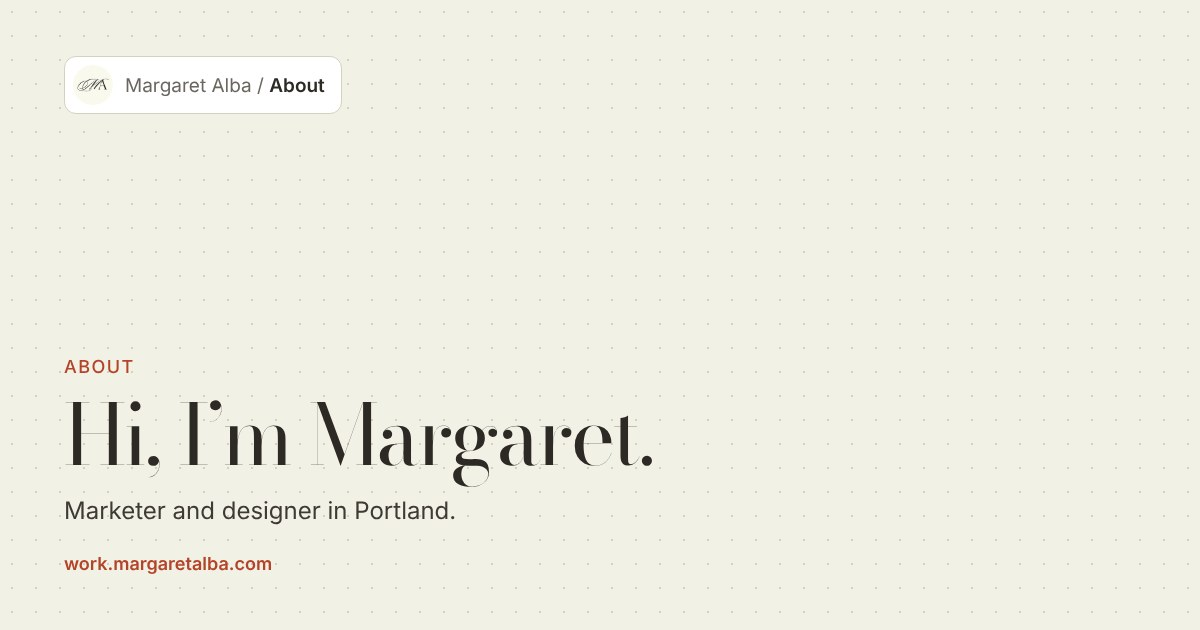
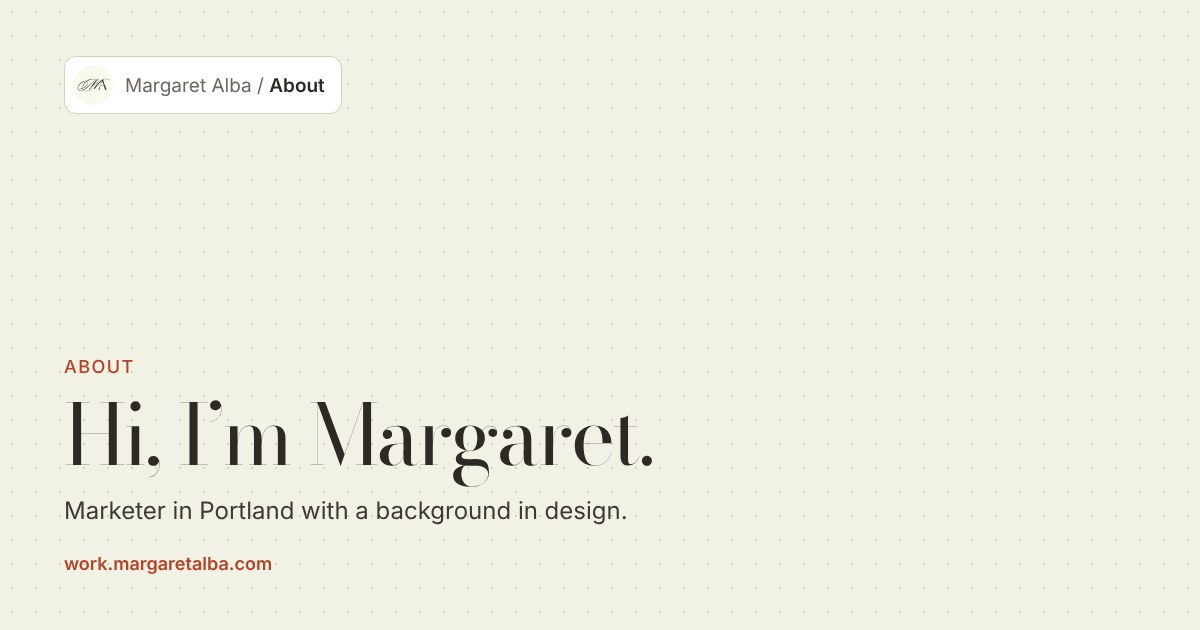
Position as a marketer with a design background
Marketer-first intros, ownership verbs where accurate, and a status line
that reads as client work: Booking marketing projects.

Claude-Session: https://claude.ai/code/session_01Bp2y4MwKfvAmLHEs5SbnWi

Changed region(s): [[0.1542, 0.7841, 0.5242, 0.8444]]

diff --git a/stitch-fix-meta/index.html b/stitch-fix-meta/index.html
@@ -84,13 +84,13 @@ div[style*="repeat(4,1fr)"]{grid-template-columns:repeat(2,1fr)!important}
 
 <div style="display:flex;flex-wrap:wrap;gap:12px 24px;align-items:center;justify-content:space-between">
 <div style="display:flex;align-items:center;gap:12px;background:#fff;border:1px solid #D5D1C0;border-radius:12px;padding:8px 14px 8px 8px;font-size:14px"><img src="/assets/img/logo.png" alt="Margaret Alba monogram" style="display:block;width:32px;height:32px;border-radius:50%;flex:none"><span><span style="color:#6B665E"><a href="https://www.margaretalba.com" class="ma" style="color:#6B665E">Margaret Alba</a> / <a href="/" class="ma" style="color:#6B665E">Marketing portfolio</a> /</span> <b style="font-weight:600">Stitch Fix Meta Growth Creative</b></span></div>
-<div style="display:flex;flex-wrap:wrap;align-items:center;gap:10px 20px;font-size:14px"><a href="/" style="color:#6B665E">← All work</a><span class="st"><span class="st-dot" aria-hidden="true"></span>Booking freelance projects</span><a class="hv" href="mailto:hello@margaretalba.com" style="background:#B54329;color:#F9F9EE;border-radius:8px;padding:9px 18px;font-weight:600"><span class="fl" aria-hidden="true"></span>Say hi</a></div>
+<div style="display:flex;flex-wrap:wrap;align-items:center;gap:10px 20px;font-size:14px"><a href="/" style="color:#6B665E">← All work</a><span class="st"><span class="st-dot" aria-hidden="true"></span>Booking marketing projects</span><a class="hv" href="mailto:hello@margaretalba.com" style="background:#B54329;color:#F9F9EE;border-radius:8px;padding:9px 18px;font-weight:600"><span class="fl" aria-hidden="true"></span>Say hi</a></div>
 </div>
 
 <div style="display:flex;flex-direction:column;gap:20px;max-width:820px">
 <div class="ey">Case study 01</div>
 <h1 class="bd" style="margin:0;font-size:72px;line-height:1.02;letter-spacing:-.03em">Stitch Fix Meta Growth Creative</h1>
-<p style="margin:0;font-size:22px;line-height:1.5;color:#3E3A34">I design Meta ads for Stitch Fix, from a 96-asset lower-funnel refresh to win-back ads that brought lapsed clients back for about 40% less.</p>
+<p style="margin:0;font-size:22px;line-height:1.5;color:#3E3A34">I create Meta ads for Stitch Fix, from a 96-asset lower-funnel refresh to win-back ads that brought lapsed clients back for about 40% less.</p>
 </div>
 
 <div style="display:flex;flex-wrap:wrap;gap:56px;align-items:flex-start">
@@ -103,10 +103,10 @@ div[style*="repeat(4,1fr)"]{grid-template-columns:repeat(2,1fr)!important}
 
 <main style="flex:1 1 560px;max-width:760px;display:flex;flex-direction:column;gap:80px">
 
-<section id="ch" style="display:flex;flex-direction:column;gap:14px"><div class="ey">The challenge</div><p class="p" style="font-size:20px">Stitch Fix is an online styling service, and Meta is where it finds new clients and wins back old ones. I design for both: lower-funnel ads for people close to signing up, and reactivation ads for clients who drifted away. Each audience needs a different message, the women’s and men’s lines each need their own look, and all of it runs on a busy promo calendar.</p></section>
+<section id="ch" style="display:flex;flex-direction:column;gap:14px"><div class="ey">The challenge</div><p class="p" style="font-size:20px">Stitch Fix is an online styling service, and Meta is where it finds new clients and wins back old ones. My work covers both: lower-funnel ads for people close to signing up, and reactivation ads for clients who drifted away. Each audience needs a different message, the women’s and men’s lines each need their own look, and all of it runs on a busy promo calendar.</p></section>
 
 <section id="rx" style="display:flex;flex-direction:column;gap:32px"><div class="ey">Reactivation</div>
-<div style="display:flex;flex-direction:column;gap:14px"><p class="bd" style="margin:0;font-size:36px;line-height:1.2">Bringing lapsed clients back.</p><p class="p">Reactivation ads reach people who’ve used Stitch Fix before and drifted away. They already know the service, so the job is giving them a good reason to come back. I designed the ads for several reactivation campaigns, each with its own offer for a different group of lapsed clients: 10% off, a waived styling fee, 20% off two Fixes, or just what’s new.</p></div>
+<div style="display:flex;flex-direction:column;gap:14px"><p class="bd" style="margin:0;font-size:36px;line-height:1.2">Bringing lapsed clients back.</p><p class="p">Reactivation ads reach people who’ve used Stitch Fix before and drifted away. They already know the service, so the job is giving them a good reason to come back. I created the ads for several reactivation campaigns, each with its own offer for a different group of lapsed clients: 10% off, a waived styling fee, 20% off two Fixes, or just what’s new.</p></div>
 <div style="display:grid;grid-template-columns:repeat(auto-fit,minmax(200px,1fr));gap:16px"><div class="fm" style="background:#fff;display:flex;flex-direction:column;gap:4px;padding:22px 24px"><div class="bd" style="font-size:60px;line-height:1;color:#B54329">~40%</div><div style="font-size:14px;color:#6B665E">Lower cost per returning client: the 20%-off static, women’s and men’s</div></div><div class="fm" style="background:#fff;display:flex;flex-direction:column;gap:4px;padding:22px 24px"><div class="bd" style="font-size:60px;line-height:1;color:#B54329">~38%</div><div style="font-size:14px;color:#6B665E">Lower cost per returning client: the waived-fee static</div></div><div class="fm" style="background:#fff;display:flex;flex-direction:column;gap:4px;padding:22px 24px"><div class="bd" style="font-size:60px;line-height:1;color:#B54329">−25%</div><div style="font-size:14px;color:#6B665E">Cost per returning client as the waived-fee static’s budget grew</div></div></div>
 <p class="cap" style="margin:0">From my best-performing reactivation statics, compared with the dynamic product ads running at the same time.</p>
 <div><div class="bd sh">Start from what’s worked.</div><p class="p">The brief gave me the goal, and I took it from there: picking the photos, building on layouts that had performed well before, and treating the offer the way past results said to.</p></div>
@@ -129,10 +129,10 @@ div[style*="repeat(4,1fr)"]{grid-template-columns:repeat(2,1fr)!important}
 <div style="display:grid;grid-template-columns:repeat(auto-fit,minmax(200px,1fr));gap:16px"><div class="fm" style="background:#fff;display:flex;flex-direction:column;gap:4px;padding:22px 24px"><div class="bd" style="font-size:60px;line-height:1;color:#B54329">96</div><div style="font-size:14px;color:#6B665E">Meta assets in one campaign</div></div><div class="fm" style="background:#fff;display:flex;flex-direction:column;gap:4px;padding:22px 24px"><div class="bd" style="font-size:34px;line-height:60px;color:#B54329;white-space:nowrap">4:5 &amp; 9:16</div><div style="font-size:14px;color:#6B665E">Feed, Stories and Reels sizes</div></div><div class="fm" style="background:#fff;display:flex;flex-direction:column;gap:4px;padding:22px 24px"><div class="bd" style="font-size:34px;line-height:60px;color:#B54329;white-space:nowrap">+ Motion</div><div style="font-size:14px;color:#6B665E">Static and animated versions</div></div></div>
 <div><div class="fl"><span>Meta static ads, one campaign</span><span>04</span></div><div class="fm" style="padding:10px;background:#fff"><div style="display:grid;grid-template-columns:repeat(4,1fr);gap:8px"><img loading="lazy" decoding="async" src="/assets/img/stitch-fix-1.webp" alt="Spring Style Made Easy: a striped dress with accessories beside the model wearing it, with a $20 off your first Fix badge."><img loading="lazy" decoding="async" src="/assets/img/stitch-fix-2.webp" alt="Side effects may include compliments: a flat lay of spring pieces with the $20 off badge."><img loading="lazy" decoding="async" src="/assets/img/stitch-fix-3.webp" alt="Big plus Tall is here: men’s jacket, polo, jeans and sneakers around a smiling model."><img loading="lazy" decoding="async" src="/assets/img/stitch-fix-4.webp" alt="All style, no risk: folded men’s clothing and a Stitch Fix box with the $20 off badge."></div></div></div>
 <div><div class="fl"><span>Meta video ads</span><span>05</span></div><div class="fm" style="background:#fff"><div style="display: grid; grid-template-columns: repeat(4,1fr); gap: 10px; align-items: start; position: relative"><video src="/assets/video/stitch-fix-5.mp4" poster="/assets/img/stitch-fix-6.webp" autoplay="" muted="" loop="" playsinline="" preload="metadata" aria-label="Women’s Meta video ad, vertical" style="display:block;width:100%;height:auto;border-radius:8px;background:#E9E1D2"></video><video src="/assets/video/stitch-fix-7.mp4" poster="/assets/img/stitch-fix-8.webp" autoplay="" muted="" loop="" playsinline="" preload="metadata" aria-label="Women’s Meta video ad, vertical" style="display:block;width:100%;height:auto;border-radius:8px;background:#E9E1D2"></video><video src="/assets/video/stitch-fix-video-3.mp4" autoplay="" muted="" loop="" playsinline="" preload="metadata" aria-label="Meta video ad, vertical" style="display:block;width:100%;height:auto;border-radius:8px;background:#E9E1D2"></video><video src="/assets/video/stitch-fix-video-4.mp4" autoplay="" muted="" loop="" playsinline="" preload="metadata" aria-label="Meta video ad, vertical" style="display:block;width:100%;height:auto;border-radius:8px;background:#E9E1D2"></video></div></div></div>
-<p class="cap" style="margin:0">Behind these, I design the DPA and non-DPA assets for both the women’s and men’s lines.</p>
+<p class="cap" style="margin:0">Behind these, I also create the DPA and non-DPA assets for both the women’s and men’s lines.</p>
 </section>
 
-<section id="ln" style="display:flex;flex-direction:column;gap:14px"><div class="ey">What I learned</div><p class="p">An ad is a tiny space, so every part of it has to earn its place. I learned to start with the audience: what does a new client want, what would bring a lapsed client back, and what do they actually <em>need</em> to see? Then I design for that.</p></section>
+<section id="ln" style="display:flex;flex-direction:column;gap:14px"><div class="ey">What I learned</div><p class="p">An ad is a tiny space, so every part of it has to earn its place. I learned to start with the audience: what does a new client want, what would bring a lapsed client back, and what do they actually <em>need</em> to see? Then I build the creative around that.</p></section>
 
 <a class="nx" href="/ltk-madewell" style="display:flex;flex-wrap:wrap;gap:12px;justify-content:space-between;align-items:center;border-top:1px solid #2D2A25;padding-top:28px"><span style="font-size:13px;letter-spacing:.08em;text-transform:uppercase;color:#6B665E">Next case study</span><span class="nt bd" style="font-size:30px;transition:color .2s">LTK × Madewell In-App Sale →</span></a>
 

diff --git a/about/index.html b/about/index.html
@@ -83,13 +83,13 @@ div[style*="repeat(4,1fr)"]{grid-template-columns:repeat(2,1fr)!important}
 
 <div style="display:flex;flex-wrap:wrap;gap:12px 24px;align-items:center;justify-content:space-between">
 <div style="display:flex;align-items:center;gap:12px;background:#fff;border:1px solid #D5D1C0;border-radius:12px;padding:8px 14px 8px 8px;font-size:14px"><img src="/assets/img/logo.png" alt="Margaret Alba monogram" style="display:block;width:32px;height:32px;border-radius:50%;flex:none"><span><span style="color:#6B665E"><a href="https://www.margaretalba.com" class="ma" style="color:#6B665E">Margaret Alba</a> / <a href="/" class="ma" style="color:#6B665E">Marketing portfolio</a> /</span> <b style="font-weight:600">About</b></span></div>
-<div style="display:flex;flex-wrap:wrap;align-items:center;gap:10px 20px;font-size:14px"><a href="/" style="color:#6B665E">← All work</a><span class="st"><span class="st-dot" aria-hidden="true"></span>Booking freelance projects</span><a class="hv" href="mailto:hello@margaretalba.com" style="background:#B54329;color:#F9F9EE;border-radius:8px;padding:9px 18px;font-weight:600"><span class="fl" aria-hidden="true"></span>Say hi</a></div>
+<div style="display:flex;flex-wrap:wrap;align-items:center;gap:10px 20px;font-size:14px"><a href="/" style="color:#6B665E">← All work</a><span class="st"><span class="st-dot" aria-hidden="true"></span>Booking marketing projects</span><a class="hv" href="mailto:hello@margaretalba.com" style="background:#B54329;color:#F9F9EE;border-radius:8px;padding:9px 18px;font-weight:600"><span class="fl" aria-hidden="true"></span>Say hi</a></div>
 </div>
 
 <div style="display:flex;flex-direction:column;gap:20px;max-width:820px">
 <div class="ey">About</div>
 <h1 class="bd" style="margin:0;font-size:72px;line-height:1.02;letter-spacing:-.03em">Hi, I’m Margaret.</h1>
-<p style="margin:0;font-size:22px;line-height:1.5;color:#3E3A34">I’m a marketer and designer in Portland, focused on promotions and paid social. I love bringing creativity to every part of a campaign, from the strategy to the execution.</p>
+<p style="margin:0;font-size:22px;line-height:1.5;color:#3E3A34">I’m a marketer in Portland with a background in design, focused on promotions and paid social. I love bringing creativity to every part of a campaign, from the strategy to the execution.</p>
 </div>
 
 <div style="display:flex;flex-wrap:wrap;gap:56px;align-items:flex-start">
@@ -106,10 +106,10 @@ div[style*="repeat(4,1fr)"]{grid-template-columns:repeat(2,1fr)!important}
 <p class="p" style="font-size:20px">Growing up, all I wanted was to be an artist. My parents had never met an artist who made a living at it, so we compromised, and I went to school for marketing. To my surprise, I loved it. Marketing gave design a purpose, and it made my work more thoughtful.</p>
 <p class="p">After school, I built a career in graphic design across tech and retail, both in-house and at an agency, while freelancing in marketing for local B2C brands.</p>
 <p class="p">Today, that design background is my biggest strength as a marketer. Everyone is competing for attention, and I know how to make work that gets noticed.</p></section>
-<section id="now" style="display:flex;flex-direction:column;gap:14px"><div class="ey">Right now</div><p class="p">At Stitch Fix, I design the promotions and growth creative that bring in new clients for the women’s and men’s lines, from Meta ads to DPA. <a href="/stitch-fix-meta" style="color:#8F3118;text-decoration:underline;text-underline-offset:3px">See the Meta work.</a></p></section>
+<section id="now" style="display:flex;flex-direction:column;gap:14px"><div class="ey">Right now</div><p class="p">At Stitch Fix, I create the promotions and growth creative that bring in new clients and win back lapsed ones, from Meta ads to DPA, for the women’s and men’s lines. <a href="/stitch-fix-meta" style="color:#8F3118;text-decoration:underline;text-underline-offset:3px">See the Meta work.</a></p></section>
 
 <section id="before" style="display:flex;flex-direction:column;gap:14px"><div class="ey">Before that</div>
-<p class="p">I was at LTK until May 2024, working on in-app sales with brands like Madewell and adidas. I made the emails, social posts, banners and decks for those sales, and I designed the look of LTK’s podcast, More to Say. I also got to work on campaigns for Abercrombie &amp; Fitch and ASOS.</p>
+<p class="p">I was at LTK until May 2024, working on in-app sales with brands like Madewell and adidas. I owned the creative for those sales, from emails and social posts to banners and decks, and I built the brand for LTK’s podcast, More to Say. I also got to work on campaigns for Abercrombie &amp; Fitch and ASOS.</p>
 <p class="p">Before that, from 2017 to 2019, I was the Marketing &amp; Design Coordinator at Project Object and Upper Metal Class in Portland. I did a bit of everything there: the store identity, events, emails and the Shopify site. <a href="/project-object" style="color:#8F3118;text-decoration:underline;text-underline-offset:3px">See Project Object.</a></p></section>
 
 <section id="video" style="display:flex;flex-direction:column;gap:14px"><div class="ey">Video</div><p class="p">I also script, film and edit videos, for brands like wool&amp; and Under Luna and for my own YouTube channel. <a href="/video" style="color:#8F3118;text-decoration:underline;text-underline-offset:3px">See the videos.</a></p></section>

diff --git a/ltk-madewell/index.html b/ltk-madewell/index.html
@@ -82,13 +82,13 @@ div[style*="repeat(4,1fr)"]{grid-template-columns:repeat(2,1fr)!important}
 
 <div style="display:flex;flex-wrap:wrap;gap:12px 24px;align-items:center;justify-content:space-between">
 <div style="display:flex;align-items:center;gap:12px;background:#fff;border:1px solid #D5D1C0;border-radius:12px;padding:8px 14px 8px 8px;font-size:14px"><img src="/assets/img/logo.png" alt="Margaret Alba monogram" style="display:block;width:32px;height:32px;border-radius:50%;flex:none"><span><span style="color:#6B665E"><a href="https://www.margaretalba.com" class="ma" style="color:#6B665E">Margaret Alba</a> / <a href="/" class="ma" style="color:#6B665E">Marketing portfolio</a> /</span> <b style="font-weight:600">LTK × Madewell</b></span></div>
-<div style="display:flex;flex-wrap:wrap;align-items:center;gap:10px 20px;font-size:14px"><a href="/" style="color:#6B665E">← All work</a><span class="st"><span class="st-dot" aria-hidden="true"></span>Booking freelance projects</span><a class="hv" href="mailto:hello@margaretalba.com" style="background:#B54329;color:#F9F9EE;border-radius:8px;padding:9px 18px;font-weight:600"><span class="fl" aria-hidden="true"></span>Say hi</a></div>
+<div style="display:flex;flex-wrap:wrap;align-items:center;gap:10px 20px;font-size:14px"><a href="/" style="color:#6B665E">← All work</a><span class="st"><span class="st-dot" aria-hidden="true"></span>Booking marketing projects</span><a class="hv" href="mailto:hello@margaretalba.com" style="background:#B54329;color:#F9F9EE;border-radius:8px;padding:9px 18px;font-weight:600"><span class="fl" aria-hidden="true"></span>Say hi</a></div>
 </div>
 
 <div style="display:flex;flex-direction:column;gap:20px;max-width:820px">
 <div class="ey">Case study 02</div>
 <h1 class="bd" style="margin:0;font-size:72px;line-height:1.02;letter-spacing:-.03em">LTK × Madewell In-App Sale</h1>
-<p style="margin:0;font-size:22px;line-height:1.5;color:#3E3A34">I designed everything for LTK’s in-app sale with Madewell, from the emails and social posts to the banners and decks. Sales went up 220%.</p>
+<p style="margin:0;font-size:22px;line-height:1.5;color:#3E3A34">I owned the creative for LTK’s in-app sale with Madewell, before, during and after the sale, from the emails and social posts to the banners and decks. Sales went up 220%.</p>
 </div>
 
 <div style="display:flex;flex-wrap:wrap;gap:56px;align-items:flex-start">
@@ -115,7 +115,7 @@ div[style*="repeat(4,1fr)"]{grid-template-columns:repeat(2,1fr)!important}
 <div><div class="fl"><span>Social posts</span><span>02</span></div><div class="fm" style="background:#fff"><img loading="lazy" decoding="async" src="/assets/img/madewell-2.webp" alt="Three feed posts: the exclusive in-app sale announcement, a three-step checklist to get ready, and a post of Madewell top performers."></div></div>
 <div><div class="fl"><span>Banners</span><span>03</span></div><div class="fm" style="background:#fff"><img loading="lazy" decoding="async" src="/assets/img/madewell-3.webp" alt="Four banners moving from “is coming” to “is live next week,” “sale is live in-app” and “is officially live in-app.”"></div></div>
 <div><div class="fl"><span>Deck slide</span><span>04</span></div><div class="fm" style="background:#fff"><img loading="lazy" decoding="async" src="/assets/img/madewell-slide.webp" alt="A slide titled #LTK×Madewell Marketing Communications, with a creator in a black blazer on the left and the Madewell blazer on a hanger on the right. Creator marketing ran 9/29 to 10/29 and shopper marketing ran 10/17 to 10/29."></div><p class="cap">From the marketing deck. Creator marketing ran 9/29 to 10/29, and shopper marketing ran 10/17 to 10/29.</p></div>
-<p class="cap" style="margin:0">I designed the emails and blog posts for the sale, too.</p>
+<p class="cap" style="margin:0">I created the emails and blog posts for the sale, too.</p>
 </section>
 
 <section id="rs" style="display:flex;flex-direction:column;gap:24px"><div class="ey">Results</div>

diff --git a/ltk-adidas/index.html b/ltk-adidas/index.html
@@ -82,13 +82,13 @@ div[style*="repeat(4,1fr)"]{grid-template-columns:repeat(2,1fr)!important}
 
 <div style="display:flex;flex-wrap:wrap;gap:12px 24px;align-items:center;justify-content:space-between">
 <div style="display:flex;align-items:center;gap:12px;background:#fff;border:1px solid #D5D1C0;border-radius:12px;padding:8px 14px 8px 8px;font-size:14px"><img src="/assets/img/logo.png" alt="Margaret Alba monogram" style="display:block;width:32px;height:32px;border-radius:50%;flex:none"><span><span style="color:#6B665E"><a href="https://www.margaretalba.com" class="ma" style="color:#6B665E">Margaret Alba</a> / <a href="/" class="ma" style="color:#6B665E">Marketing portfolio</a> /</span> <b style="font-weight:600">LTK × adidas</b></span></div>
-<div style="display:flex;flex-wrap:wrap;align-items:center;gap:10px 20px;font-size:14px"><a href="/" style="color:#6B665E">← All work</a><span class="st"><span class="st-dot" aria-hidden="true"></span>Booking freelance projects</span><a class="hv" href="mailto:hello@margaretalba.com" style="background:#B54329;color:#F9F9EE;border-radius:8px;padding:9px 18px;font-weight:600"><span class="fl" aria-hidden="true"></span>Say hi</a></div>
+<div style="display:flex;flex-wrap:wrap;align-items:center;gap:10px 20px;font-size:14px"><a href="/" style="color:#6B665E">← All work</a><span class="st"><span class="st-dot" aria-hidden="true"></span>Booking marketing projects</span><a class="hv" href="mailto:hello@margaretalba.com" style="background:#B54329;color:#F9F9EE;border-radius:8px;padding:9px 18px;font-weight:600"><span class="fl" aria-hidden="true"></span>Say hi</a></div>
 </div>
 
 <div style="display:flex;flex-direction:column;gap:20px;max-width:820px">
 <div class="ey">Case study 04</div>
 <h1 class="bd" style="margin:0;font-size:72px;line-height:1.02;letter-spacing:-.03em">LTK × adidas In-App Sale</h1>
-<p style="margin:0;font-size:22px;line-height:1.5;color:#3E3A34">For the first-ever LTK × adidas in-app sale, I designed everything from the emails and story templates to the banners and decks.</p>
+<p style="margin:0;font-size:22px;line-height:1.5;color:#3E3A34">I owned the creative for the first-ever LTK × adidas in-app sale, before, during and after the sale, from the emails and story templates to the banners and decks.</p>
 </div>
 
 <div style="display:flex;flex-wrap:wrap;gap:56px;align-items:flex-start">
@@ -114,7 +114,7 @@ div[style*="repeat(4,1fr)"]{grid-template-columns:repeat(2,1fr)!important}
 <div><div class="fl"><span>Emails</span><span>01</span></div><div class="fm" style="background:#fff"><img loading="lazy" decoding="async" src="/assets/img/adidas-1.webp" alt="Two phone screens showing LTK emails: “The #LTKxadidas sale starts tomorrow!” and “starts today!”, each with an adidas block and a call to action."></div><p class="cap">Teaser and launch emails.</p></div>
 <div><div class="fl"><span>Instagram stories</span><span>02</span></div><div class="fm"><img loading="lazy" decoding="async" src="/assets/img/adidas-2.webp" alt="Three Instagram stories on phones: a “Get ready for the #LTKxadidas in-app sale” announcement, an Ultraboost shoes story and a women’s workout gear story."></div><p class="cap">Creator stories.</p></div>
 <div><div class="fl"><span>Story set</span><span>03</span></div><div class="fm" style="background:#fff"><img loading="lazy" decoding="async" src="/assets/img/adidas-3.webp" alt="The three story designs side by side, with the creator announcement shown on a phone."></div></div>
-<p class="cap" style="margin:0">I designed the blog images, banners and decks for the sale, too.</p>
+<p class="cap" style="margin:0">I created the blog images, banners and decks for the sale, too.</p>
 </section>
 
 

diff --git a/index.html b/index.html
@@ -106,7 +106,7 @@ div[style*="repeat(4,1fr)"]{grid-template-columns:repeat(2,1fr)!important}
 <img src="/assets/img/logo.png" alt="Margaret Alba monogram" style="display:block;width:32px;height:32px;border-radius:50%;flex:none">
 <span style="font-size:14px"><span style="color:#6B665E"><a href="https://www.margaretalba.com" class="ma" style="color:#6B665E">Margaret Alba</a> /</span> <b style="font-weight:600">Marketing portfolio</b></span>
 </div>
-<div style="display:flex;flex-wrap:wrap;align-items:center;gap:10px 20px;font-size:13px"><span class="st"><span class="st-dot" aria-hidden="true"></span>Booking freelance projects</span><a class="hv" href="mailto:hello@margaretalba.com" style="background:#B54329;color:#F9F9EE;border-radius:8px;padding:9px 18px;font-weight:600"><span class="fl" aria-hidden="true"></span>Say hi</a></div>
+<div style="display:flex;flex-wrap:wrap;align-items:center;gap:10px 20px;font-size:13px"><span class="st"><span class="st-dot" aria-hidden="true"></span>Booking marketing projects</span><a class="hv" href="mailto:hello@margaretalba.com" style="background:#B54329;color:#F9F9EE;border-radius:8px;padding:9px 18px;font-weight:600"><span class="fl" aria-hidden="true"></span>Say hi</a></div>
 </div>
 
 <!-- hero -->
@@ -161,7 +161,7 @@ div[style*="repeat(4,1fr)"]{grid-template-columns:repeat(2,1fr)!important}
 
 <!-- about strip -->
 <div style="display:flex;flex-wrap:wrap;gap:24px 56px;align-items:center;border-top:1px solid #2D2A25;padding-top:40px">
-<p class="bd" style="margin:0;flex:1 1 420px;font-size:30px;line-height:1.25">Marketer and designer in Portland. At Stitch Fix, I design promotions and growth assets. Before that I was at LTK, where I worked on campaigns for companies like Madewell and adidas.</p>
+<p class="bd" style="margin:0;flex:1 1 420px;font-size:30px;line-height:1.25">Marketer in Portland with a background in design. At Stitch Fix, I create the promotions and growth creative that bring in new clients and win back lapsed ones. Before that I was at LTK, where I worked on campaigns for companies like Madewell and adidas.</p>
 <div style="display:flex;flex-wrap:wrap;gap:12px"><a class="hv" href="mailto:hello@margaretalba.com?subject=R%C3%A9sum%C3%A9%20request" style="border:1px solid #2D2A25;border-radius:8px;padding:10px 20px;font-size:14px;font-weight:500"><span class="fl" aria-hidden="true"></span>Request résumé</a><a class="hv" href="https://www.linkedin.com/in/margaret-alba/" style="border:1px solid #2D2A25;border-radius:8px;padding:10px 20px;font-size:14px;font-weight:500"><span class="fl" aria-hidden="true"></span>LinkedIn</a><a class="hv dk" href="mailto:hello@margaretalba.com" style="background:#2D2A25;color:#F9F9EE;border-radius:8px;padding:10px 20px;font-size:14px;font-weight:500"><span class="fl" aria-hidden="true"></span>Email me</a></div>
 </div>
 

diff --git a/project-object/index.html b/project-object/index.html
@@ -84,13 +84,13 @@ div[style*="repeat(4,1fr)"]{grid-template-columns:repeat(2,1fr)!important}
 
 <div style="display:flex;flex-wrap:wrap;gap:12px 24px;align-items:center;justify-content:space-between">
 <div style="display:flex;align-items:center;gap:12px;background:#fff;border:1px solid #D5D1C0;border-radius:12px;padding:8px 14px 8px 8px;font-size:14px"><img src="/assets/img/logo.png" alt="Margaret Alba monogram" style="display:block;width:32px;height:32px;border-radius:50%;flex:none"><span><span style="color:#6B665E"><a href="https://www.margaretalba.com" class="ma" style="color:#6B665E">Margaret Alba</a> / <a href="/" class="ma" style="color:#6B665E">Marketing portfolio</a> /</span> <b style="font-weight:600">Project Object</b></span></div>
-<div style="display:flex;flex-wrap:wrap;align-items:center;gap:10px 20px;font-size:14px"><a href="/" style="color:#6B665E">← All work</a><span class="st"><span class="st-dot" aria-hidden="true"></span>Booking freelance projects</span><a class="hv" href="mailto:hello@margaretalba.com" style="background:#B54329;color:#F9F9EE;border-radius:8px;padding:9px 18px;font-weight:600"><span class="fl" aria-hidden="true"></span>Say hi</a></div>
+<div style="display:flex;flex-wrap:wrap;align-items:center;gap:10px 20px;font-size:14px"><a href="/" style="color:#6B665E">← All work</a><span class="st"><span class="st-dot" aria-hidden="true"></span>Booking marketing projects</span><a class="hv" href="mailto:hello@margaretalba.com" style="background:#B54329;color:#F9F9EE;border-radius:8px;padding:9px 18px;font-weight:600"><span class="fl" aria-hidden="true"></span>Say hi</a></div>
 </div>
 
 <div style="display:flex;flex-direction:column;gap:20px;max-width:820px">
 <div class="ey">Case study 05</div>
 <h1 class="bd" style="margin:0;font-size:72px;line-height:1.02;letter-spacing:-.03em">Project Object</h1>
-<p style="margin:0;font-size:22px;line-height:1.5;color:#3E3A34">I designed the brand, ran the events and designed the online shop for a new Portland store that gave back to its community. Within two months of opening, Portland Monthly profiled it.</p>
+<p style="margin:0;font-size:22px;line-height:1.5;color:#3E3A34">As marketing and design coordinator for a new Portland store that gave back to its community, I built the brand, ran the events, sent the emails and launched the online shop. Within two months of opening, Portland Monthly profiled it.</p>
 </div>
 
 <div style="display:flex;flex-wrap:wrap;gap:56px;align-items:flex-start">

diff --git a/more-to-say/index.html b/more-to-say/index.html
@@ -82,13 +82,13 @@ div[style*="repeat(4,1fr)"]{grid-template-columns:repeat(2,1fr)!important}
 
 <div style="display:flex;flex-wrap:wrap;gap:12px 24px;align-items:center;justify-content:space-between">
 <div style="display:flex;align-items:center;gap:12px;background:#fff;border:1px solid #D5D1C0;border-radius:12px;padding:8px 14px 8px 8px;font-size:14px"><img src="/assets/img/logo.png" alt="Margaret Alba monogram" style="display:block;width:32px;height:32px;border-radius:50%;flex:none"><span><span style="color:#6B665E"><a href="https://www.margaretalba.com" class="ma" style="color:#6B665E">Margaret Alba</a> / <a href="/" class="ma" style="color:#6B665E">Marketing portfolio</a> /</span> <b style="font-weight:600">More to Say</b></span></div>
-<div style="display:flex;flex-wrap:wrap;align-items:center;gap:10px 20px;font-size:14px"><a href="/" style="color:#6B665E">← All work</a><span class="st"><span class="st-dot" aria-hidden="true"></span>Booking freelance projects</span><a class="hv" href="mailto:hello@margaretalba.com" style="background:#B54329;color:#F9F9EE;border-radius:8px;padding:9px 18px;font-weight:600"><span class="fl" aria-hidden="true"></span>Say hi</a></div>
+<div style="display:flex;flex-wrap:wrap;align-items:center;gap:10px 20px;font-size:14px"><a href="/" style="color:#6B665E">← All work</a><span class="st"><span class="st-dot" aria-hidden="true"></span>Booking marketing projects</span><a class="hv" href="mailto:hello@margaretalba.com" style="background:#B54329;color:#F9F9EE;border-radius:8px;padding:9px 18px;font-weight:600"><span class="fl" aria-hidden="true"></span>Say hi</a></div>
 </div>
 
 <div style="display:flex;flex-direction:column;gap:20px;max-width:820px">
 <div class="ey">Case study 06</div>
 <h1 class="bd" style="margin:0;font-size:72px;line-height:1.02;letter-spacing:-.03em">More to Say</h1>
-<p style="margin:0;font-size:22px;line-height:1.5;color:#3E3A34">I designed the visual identity and launch assets for LTK’s podcast, More to Say, hosted by Amber Venz Box. The show holds a 4.9 rating across Apple Podcasts and Spotify.</p>
+<p style="margin:0;font-size:22px;line-height:1.5;color:#3E3A34">I built the brand and launch assets for LTK’s podcast, More to Say, hosted by Amber Venz Box. The show holds a 4.9 rating across Apple Podcasts and Spotify.</p>
 </div>
 
 <div style="display:flex;flex-wrap:wrap;gap:56px;align-items:flex-start">

diff --git a/video/index.html b/video/index.html
@@ -83,7 +83,7 @@ div[style*="repeat(4,1fr)"]{grid-template-columns:repeat(2,1fr)!important}
 
 <div style="display:flex;flex-wrap:wrap;gap:12px 24px;align-items:center;justify-content:space-between">
 <div style="display:flex;align-items:center;gap:12px;background:#fff;border:1px solid #D5D1C0;border-radius:12px;padding:8px 14px 8px 8px;font-size:14px"><img src="/assets/img/logo.png" alt="Margaret Alba monogram" style="display:block;width:32px;height:32px;border-radius:50%;flex:none"><span><span style="color:#6B665E"><a href="https://www.margaretalba.com" class="ma" style="color:#6B665E">Margaret Alba</a> / <a href="/" class="ma" style="color:#6B665E">Marketing portfolio</a> /</span> <b style="font-weight:600">Video and creator content</b></span></div>
-<div style="display:flex;flex-wrap:wrap;align-items:center;gap:10px 20px;font-size:14px"><a href="/" style="color:#6B665E">← All work</a><span class="st"><span class="st-dot" aria-hidden="true"></span>Booking freelance projects</span><a class="hv" href="mailto:hello@margaretalba.com" style="background:#B54329;color:#F9F9EE;border-radius:8px;padding:9px 18px;font-weight:600"><span class="fl" aria-hidden="true"></span>Say hi</a></div>
+<div style="display:flex;flex-wrap:wrap;align-items:center;gap:10px 20px;font-size:14px"><a href="/" style="color:#6B665E">← All work</a><span class="st"><span class="st-dot" aria-hidden="true"></span>Booking marketing projects</span><a class="hv" href="mailto:hello@margaretalba.com" style="background:#B54329;color:#F9F9EE;border-radius:8px;padding:9px 18px;font-weight:600"><span class="fl" aria-hidden="true"></span>Say hi</a></div>
 </div>
 
 <div style="display:flex;flex-direction:column;gap:20px;max-width:820px">
